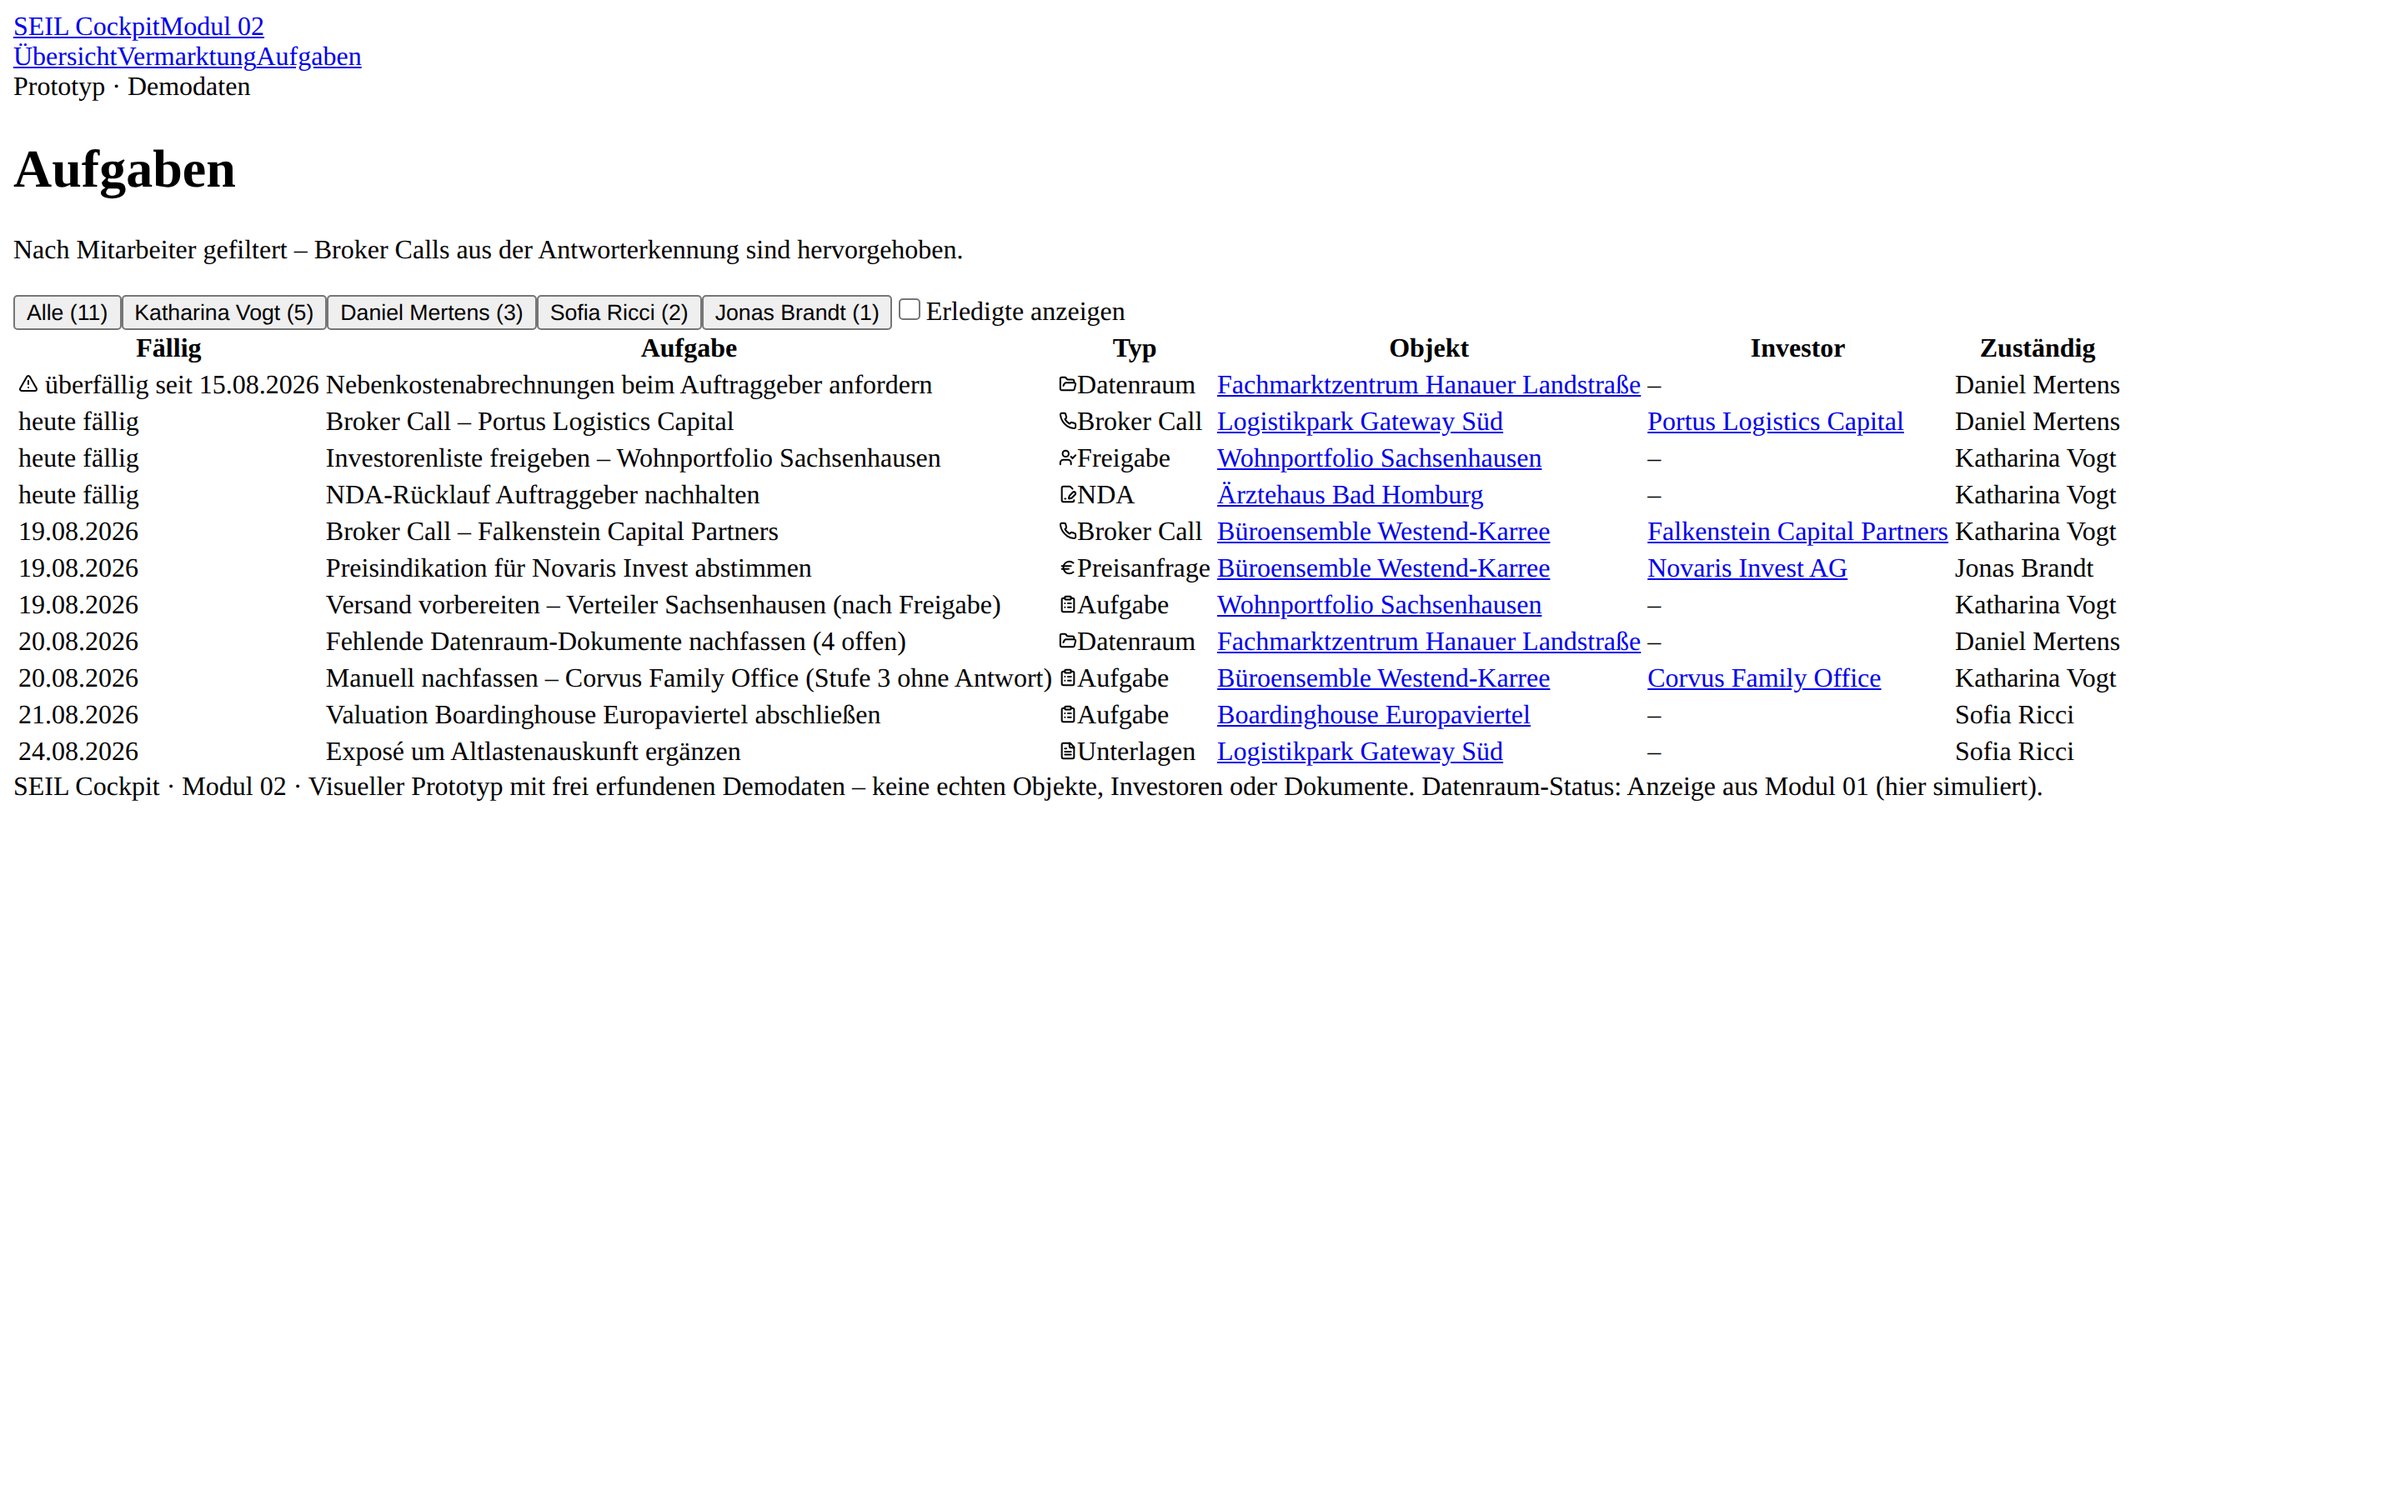
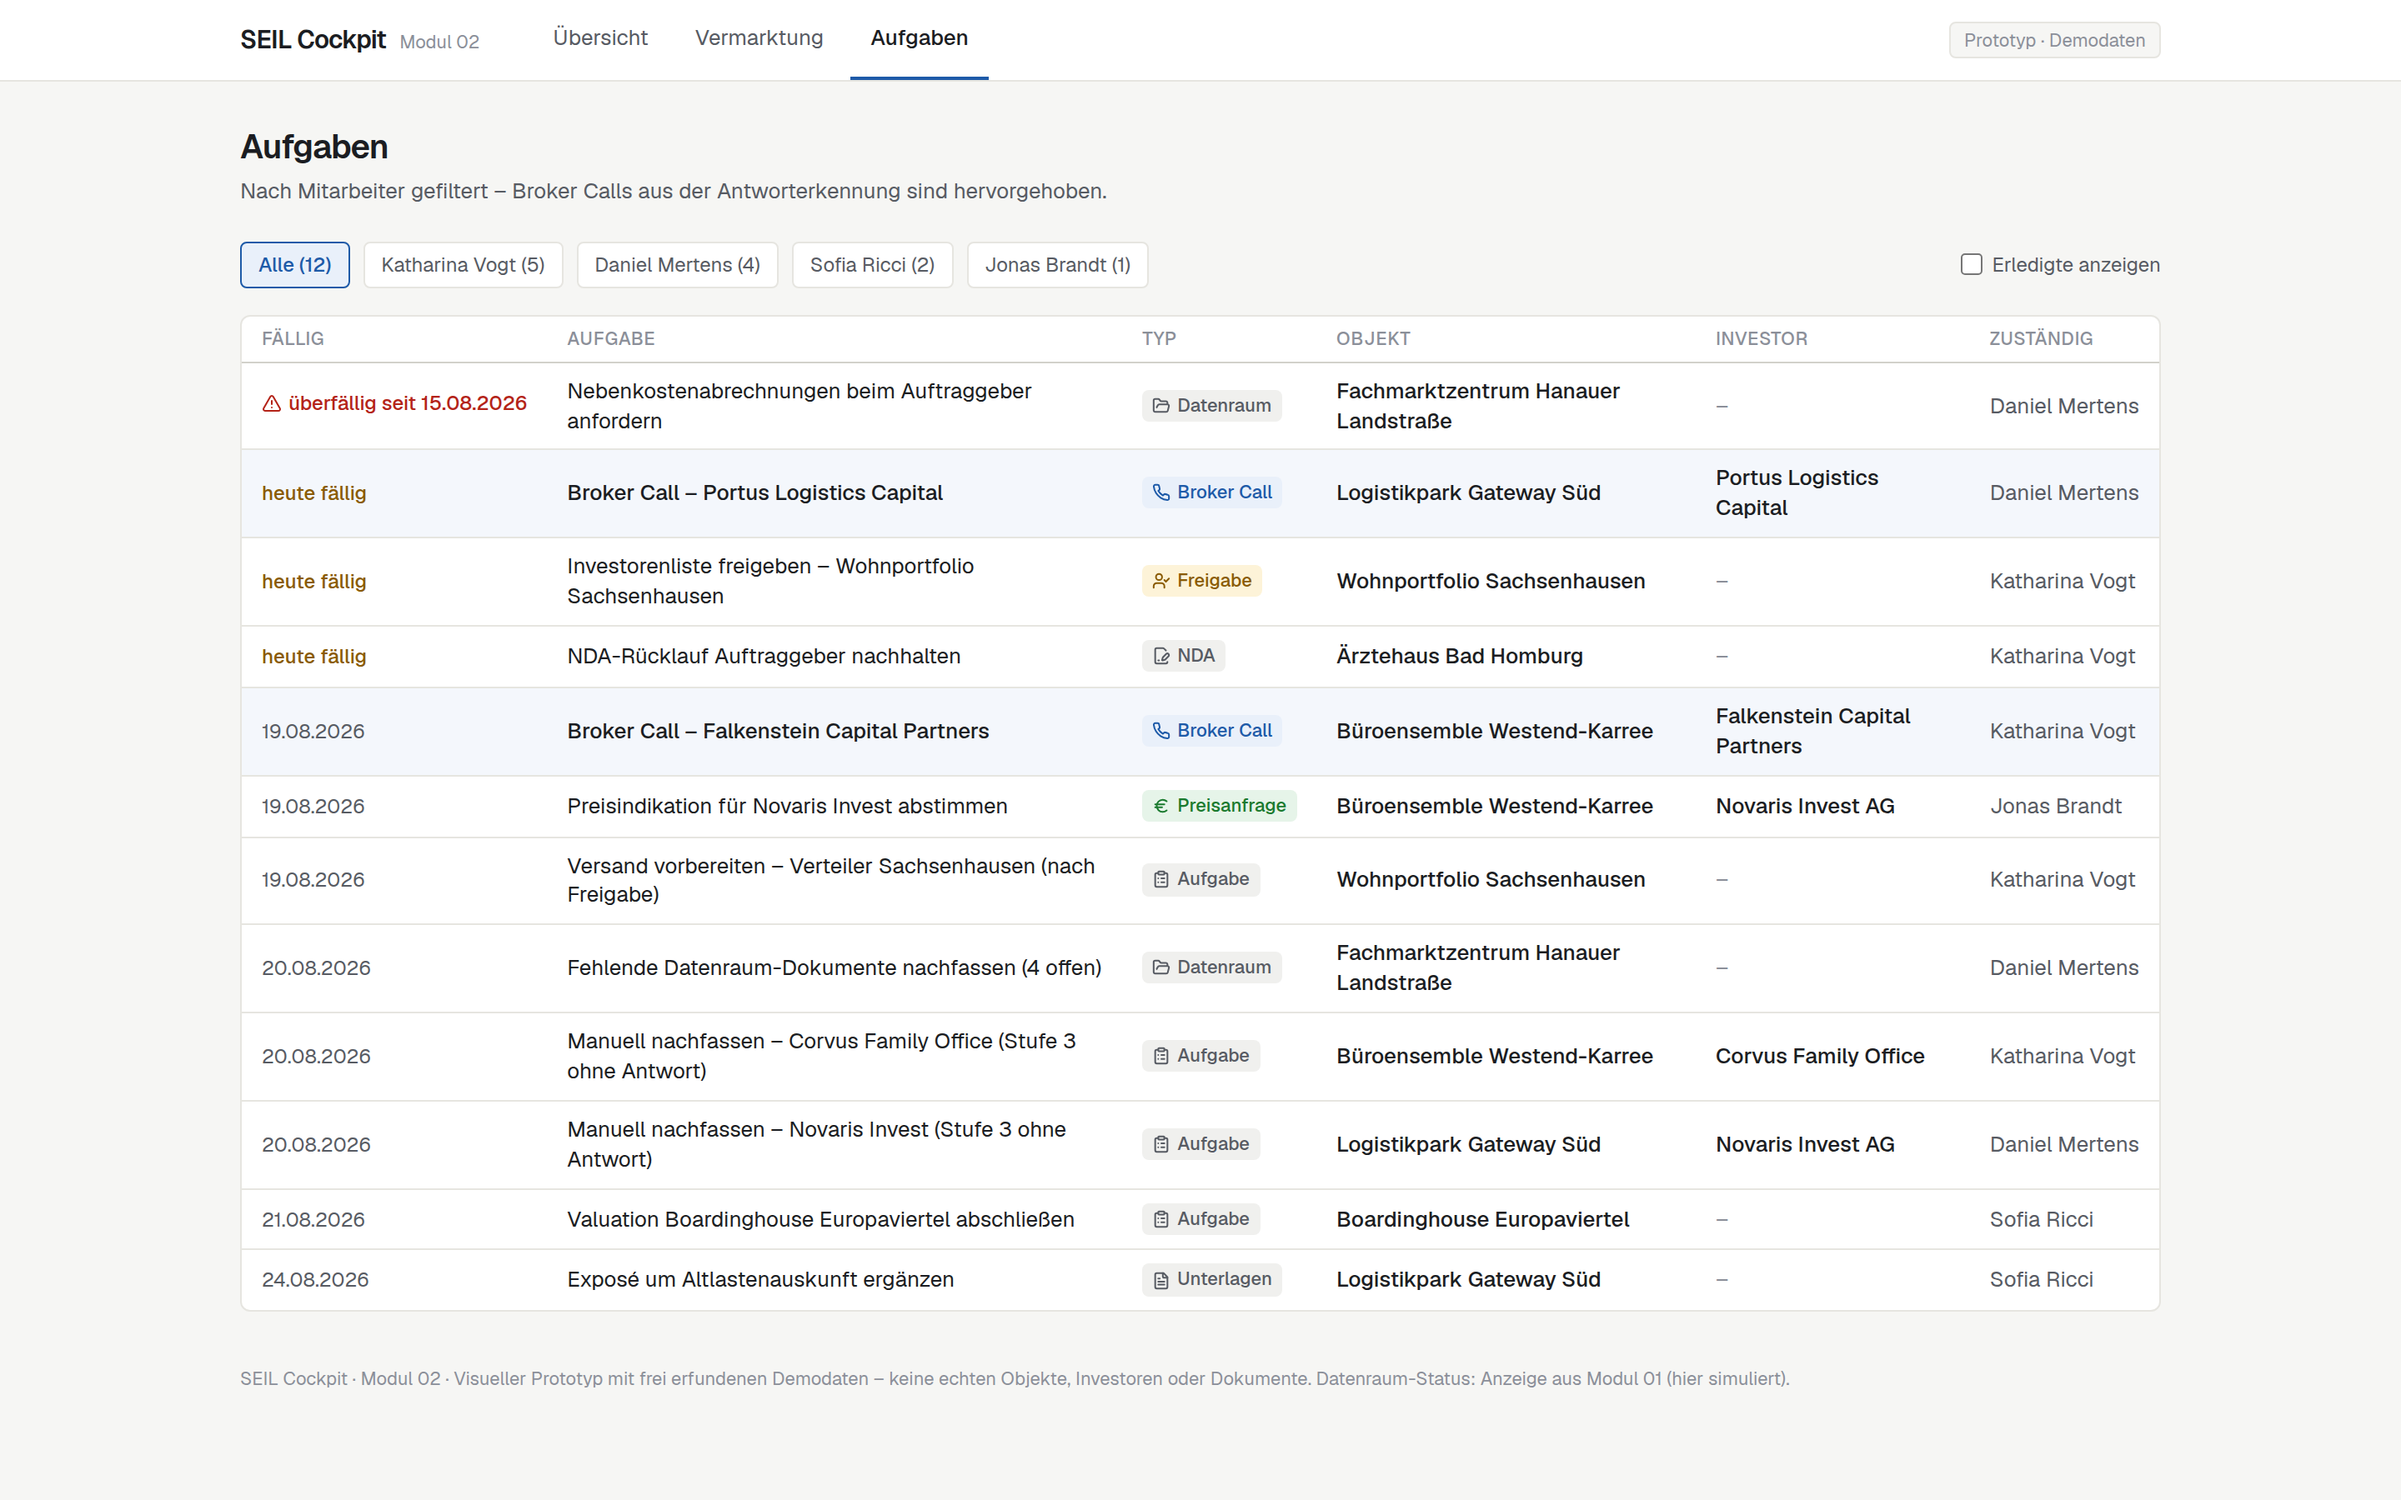
Review-Funde behoben: Screenshots, Zeilen-Klick, Vermarktungs-Link
Screenshots aller fünf Screens neu aufgenommen – die vorherige Aufnahme
lief gegen einen Altserver mit ersetzten Asset-Hashes und zeigte die
Seiten ohne CSS; das Capture-Skript verifiziert jetzt geladenes
Stylesheet und Font vor dem Screenshot.

Zeilen der Übersichtstabelle navigieren jetzt wirklich zum Objekt-Detail
(KlickZeile-Komponente), wie es Hinweistext und Cursor versprechen.
"zur Vermarktung" erscheint am Objekt nur noch, wenn die Vermarktung
gestartet ist; die Vermarktungsseite erklärt einen nicht verfügbaren
objekt-Parameter, statt still umzuschalten. Widerspruch in ANNAHMEN.md
zu überfälligen Follow-ups aufgelöst.

Claude-Session: https://claude.ai/code/session_01BojgCmkhzmX3simacEqUtG

diff --git a/app/vermarktung/page.tsx b/app/vermarktung/page.tsx
@@ -39,6 +39,8 @@ export default async function VermarktungSeite({
   const optionen = objekte.filter((o) => o.investorenPhasen.some((s) => s !== "offen"));
   const standard = optionen.find((o) => o.freigabe?.status === "ausstehend") ?? optionen[0];
   const objekt = optionen.find((o) => o.id === objektParam) ?? standard;
+  const nichtVerfuegbar =
+    objektParam && objektParam !== objekt.id ? objekte.find((o) => o.id === objektParam) : undefined;
 
   const links = [...linksZuObjekt(objekt.id)].sort(
     (a, b) => statusReihenfolge.indexOf(a.status) - statusReihenfolge.indexOf(b.status),
@@ -60,6 +62,13 @@ export default async function VermarktungSeite({
           aktivId={objekt.id}
         />
       </div>
+
+      {nichtVerfuegbar ? (
+        <p className="mb-4 rounded border border-line bg-neutral-tint px-3 py-2 text-[12px] text-ink-soft">
+          Für „{nichtVerfuegbar.name}“ ist die Vermarktung noch nicht gestartet – angezeigt wird
+          stattdessen {objekt.name}.
+        </p>
+      ) : null}
 
       <FreigabeKarte
         ausstehend={freigabeAusstehend}

diff --git a/app/page.tsx b/app/page.tsx
@@ -24,6 +24,7 @@ import {
   KpiKachel,
   SeitenKopf,
 } from "@/components/ui";
+import { KlickZeile } from "@/components/klick-zeile";
 
 export default function UebersichtSeite() {
   const k = kpis();
@@ -86,7 +87,7 @@ export default function UebersichtSeite() {
                 const offeneAufgaben = aufgabenZuObjekt(o.id).length;
                 const zust = mitarbeiterVon(o.zustaendigId);
                 return (
-                  <tr key={o.id}>
+                  <KlickZeile key={o.id} href={`/objekte/${o.id}`}>
                     <td>
                       <EntityLink href={`/objekte/${o.id}`}>{o.name}</EntityLink>
                       <div className="text-[11px] text-ink-mute">{o.stadt}</div>
@@ -111,7 +112,7 @@ export default function UebersichtSeite() {
                     <td className="w-6 pr-3">
                       <ChevronRight size={14} className="text-ink-mute" aria-hidden />
                     </td>
-                  </tr>
+                  </KlickZeile>
                 );
               })}
             </tbody>

diff --git a/app/objekte/[id]/page.tsx b/app/objekte/[id]/page.tsx
@@ -147,12 +147,16 @@ export default async function ObjektDetail({ params }: { params: Promise<{ id: s
         <section className="karte">
           <div className="karte-kopf">
             <h2 className="karte-titel">Verknüpfte Investoren ({links.length})</h2>
-            <Link
-              href={`/vermarktung?objekt=${objekt.id}`}
-              className="text-[11px] text-accent hover:underline"
-            >
-              zur Vermarktung
-            </Link>
+            {objekt.investorenPhasen.some((s) => s !== "offen") ? (
+              <Link
+                href={`/vermarktung?objekt=${objekt.id}`}
+                className="text-[11px] text-accent hover:underline"
+              >
+                zur Vermarktung
+              </Link>
+            ) : (
+              <span className="text-[11px] text-ink-mute">Vermarktung noch nicht gestartet</span>
+            )}
           </div>
           {links.length === 0 ? (
             <LeerHinweis text="Noch keine Investoren verknüpft – die Vermarktung ist nicht gestartet." />

diff --git a/components/klick-zeile.tsx b/components/klick-zeile.tsx
@@ -1,0 +1,21 @@
+"use client";
+
+import { useRouter } from "next/navigation";
+
+/**
+ * Tabellenzeile, die als Ganzes navigiert – Klicks auf innere Links
+ * bleiben davon unberührt.
+ */
+export function KlickZeile({ href, children }: { href: string; children: React.ReactNode }) {
+  const router = useRouter();
+  return (
+    <tr
+      onClick={(e) => {
+        if ((e.target as HTMLElement).closest("a")) return;
+        router.push(href);
+      }}
+    >
+      {children}
+    </tr>
+  );
+}

diff --git a/ANNAHMEN.md b/ANNAHMEN.md
@@ -19,9 +19,10 @@ für den Prototyp eine Annahme getroffen wurde – jeweils mit der gewählten Um
    Investor **vor** der Datenraum-Freigabe ein Vermarktungs-NDA unterzeichnet.
 4. **Follow-up-Automatik:** „nach 2 Tagen, bis zu 3 Stufen“ wurde als fester
    2-Tage-Rhythmus je Stufe interpretiert. Nach Stufe 3 ohne Antwort entsteht eine
-   manuelle Nachfass-Aufgabe für den zuständigen Mitarbeiter (Annahme). Automatische
-   Follow-ups können nicht „überfällig“ werden – Überfälligkeit gibt es im Prototyp
-   nur bei Aufgaben.
+   manuelle Nachfass-Aufgabe für den zuständigen Mitarbeiter (Annahme). Ein geplantes
+   Follow-up gilt als überfällig, wenn sein Termin vor dem Referenztag liegt (etwa
+   weil die Automatik angehalten wurde) – in den Demodaten kommt dieser Fall nicht
+   vor, dort entsteht Handlungsbedarf durch die ausgeschöpfte Stufe 3.
 5. **Antworterkennung:** Interesse erzeugt eine Aufgabe „Broker Call“ für den
    **objektzuständigen** Mitarbeiter (nicht für einen Pool); Preisanfragen werden als
    Aufgabe an das Investment-Team (im Prototyp: eine Person) geroutet.
